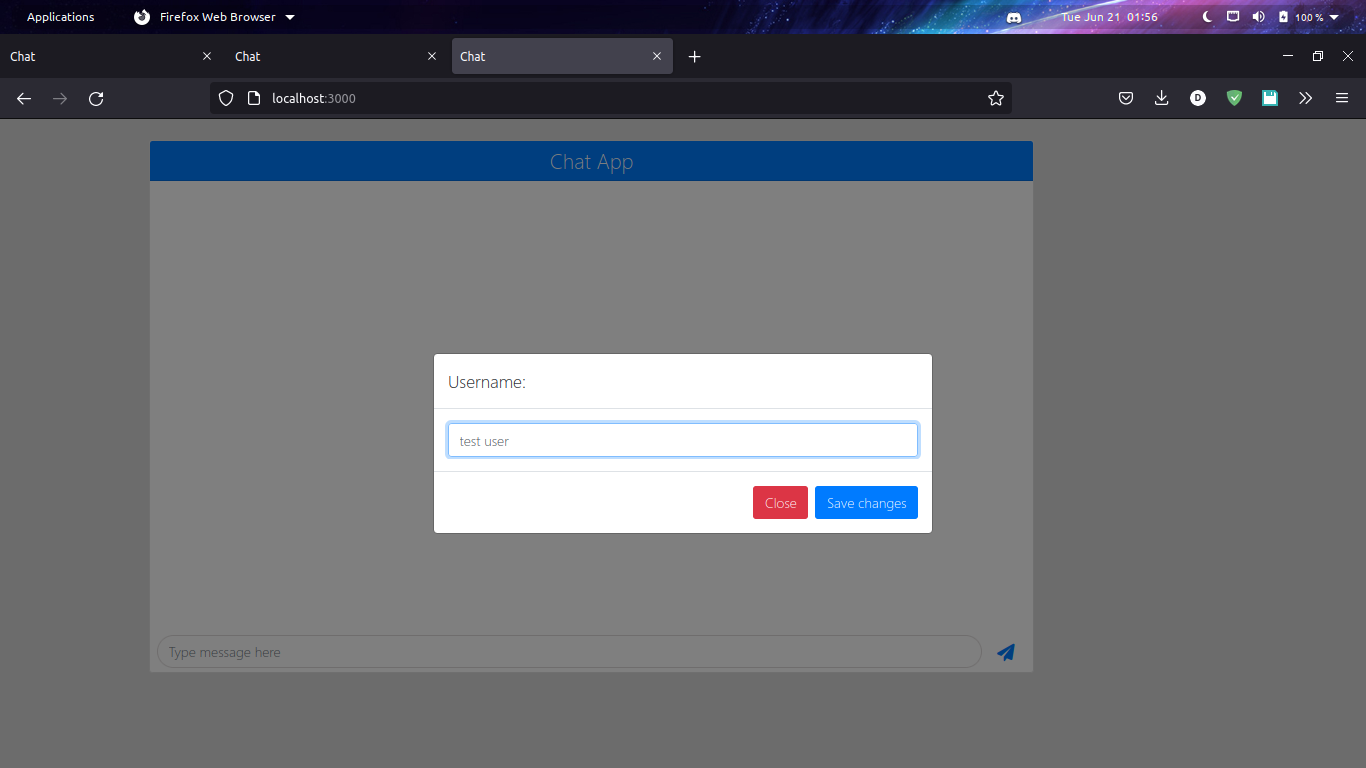
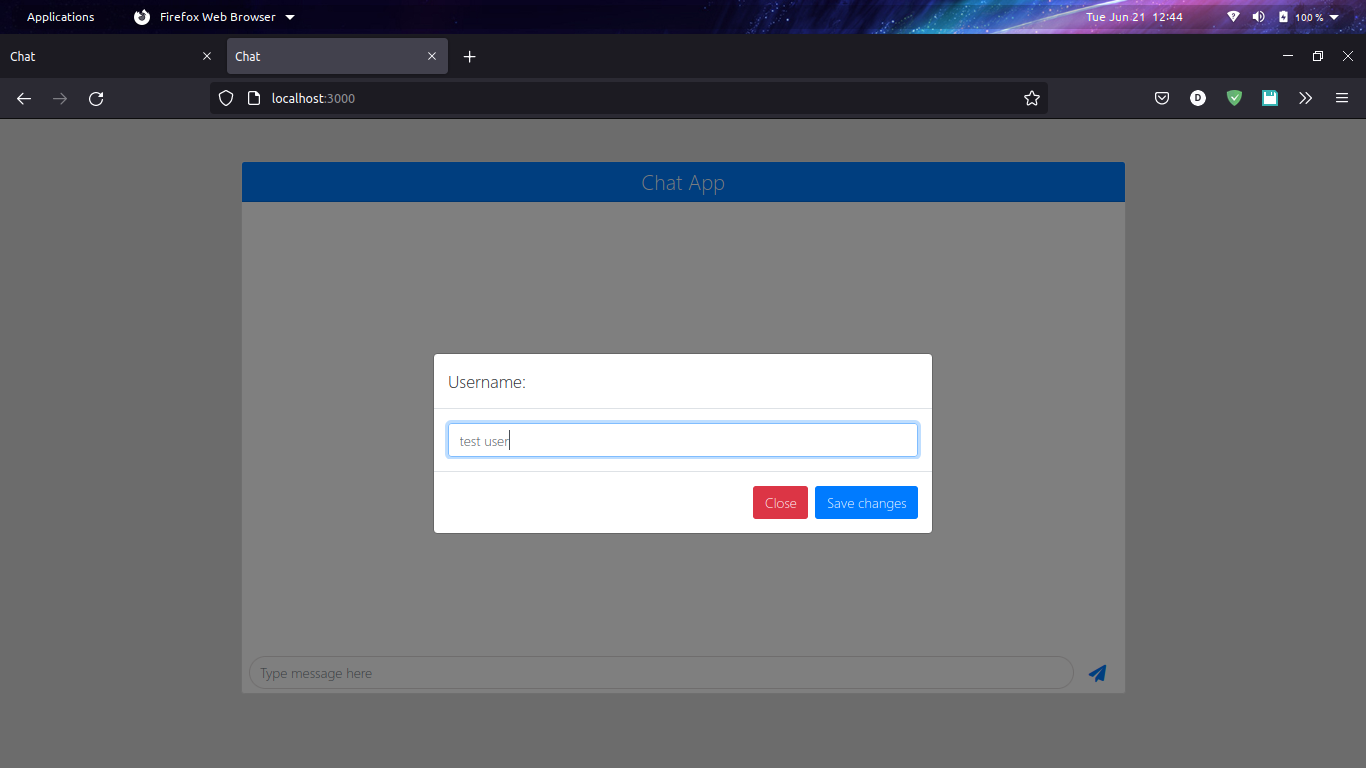
minor adjustments and fixes

diff --git a/public/main.js b/public/main.js
@@ -1,5 +1,5 @@
 const socket = io();
-let username = "user123";
+let username = "";
 const chatMsgSend = document.querySelector(".chat-send-btn");
 const chatMsgBody = document.querySelector(".chat-messages");
 
@@ -31,6 +31,10 @@ $("document").ready(function () {
 $("#save-username").click(function () {
   username = $("#username").val();
 
+  if (username === "") {
+    alert("Please enter a username");
+    return;
+  }
   $(".modal").modal("hide");
 
   socket.emit("setUsername", username);
@@ -51,31 +55,35 @@ function displayMessage(msgObj) {
   if (msgObj.user === "server") {
     // server msg
     chatMsgBody.innerHTML += `<hr data-content="${msgObj.message}" class="hr-text">`;
+  } else if (msgObj.user === "welcome") {
+    // welcome toast
+    document.querySelector(".toast-body").innerHTML = msgObj.message;
+    $(".toast").toast("show");
   } else {
     // users msg
     if (msgObj.user === username) {
       // own msg
       chatMsgBody.innerHTML += `
       <div class="message-bubble d-flex flex-column align-items-end">
-      <p class="p-2 me-3 mb-0 rounded-pill" style="background-color: #0088ff; color: white;">
-      ${msgObj.message}
-      </p>
-      <div class="small me-3 mb-2 text-muted d-flex justify-content-end">
-      ${msgObj.date} | You
+        <p class="p-2 me-3 mb-0 rounded-pill" style="background-color: #0088ff; color: white;">
+        ${msgObj.message}
+        </p>
+        <div class="small me-3 mb-2 text-muted d-flex justify-content-end">
+        ${msgObj.date} | You
+        </div>
       </div>
-  </div>
-  `;
+      `;
     } else {
       // other users msg
       chatMsgBody.innerHTML += `
       <div class="message-bubble d-flex flex-column align-items-start">
-      <p class="p-2 ms-3 mb-0 rounded-pill" style="background-color: #f5f6f7;">
-      ${msgObj.message}
-      </p>
-      <div class="small ms-3 mb-2 text-muted d-flex justify-content-start">
-          ${msgObj.user} | ${msgObj.date}
+        <p class="p-2 ms-3 mb-0 rounded-pill" style="background-color: #f5f6f7;">
+        ${msgObj.message}
+        </p>
+        <div class="small ms-3 mb-2 text-muted d-flex justify-content-start">
+            ${msgObj.user} | ${msgObj.date}
+        </div>
       </div>
-  </div>
       `;
     }
   }

diff --git a/public/index.html b/public/index.html
@@ -67,7 +67,7 @@
 
 
     <!-- body -->
-    <div class="container p-4">
+    <div class="container p-4 mt-4 d-flex justify-content-center">
         <div class="col-md-10">
             <div class="card">
                 <div class="card-header bg-primary text-white p-2 text-center">
@@ -91,6 +91,20 @@
             </div>
         </div>
     </div>
+
+    <!-- toast for welcome -->
+    <div class="toast" data-delay="1000" style="position: absolute; top: 0; right: 0;">
+        <div class="toast-header">
+            <strong class="mr-auto">Chat</strong>
+            <button type="button" class="ml-2 mb-1 close" data-dismiss="toast" aria-label="Close">
+                <span aria-hidden="true">&times;</span>
+            </button>
+        </div>
+        <div class="toast-body">
+
+        </div>
+    </div>
+
 
     <!-- bootstrap -->
     <script src="https://code.jquery.com/jquery-3.3.1.slim.min.js"

diff --git a/server.js b/server.js
@@ -4,7 +4,6 @@ const socketio = require("socket.io");
 const mongoose = require("mongoose");
 
 const {
-  Chat,
   getAllChatMessages,
   addChatMessage,
   convertDate,
@@ -15,6 +14,7 @@ const server = http.createServer(app);
 const io = socketio(server);
 
 // connect to db
+
 mongoose
   .connect("mongodb://localhost:27047/realtime_chat", {
     useUnifiedTopology: true,
@@ -33,7 +33,7 @@ io.on("connection", (socket) => {
   socket.on("setUsername", (username) => {
     // welcome user
     socket.emit("message", {
-      user: "server",
+      user: "welcome",
       message: "Welcome to the chat " + username,
     });
 
